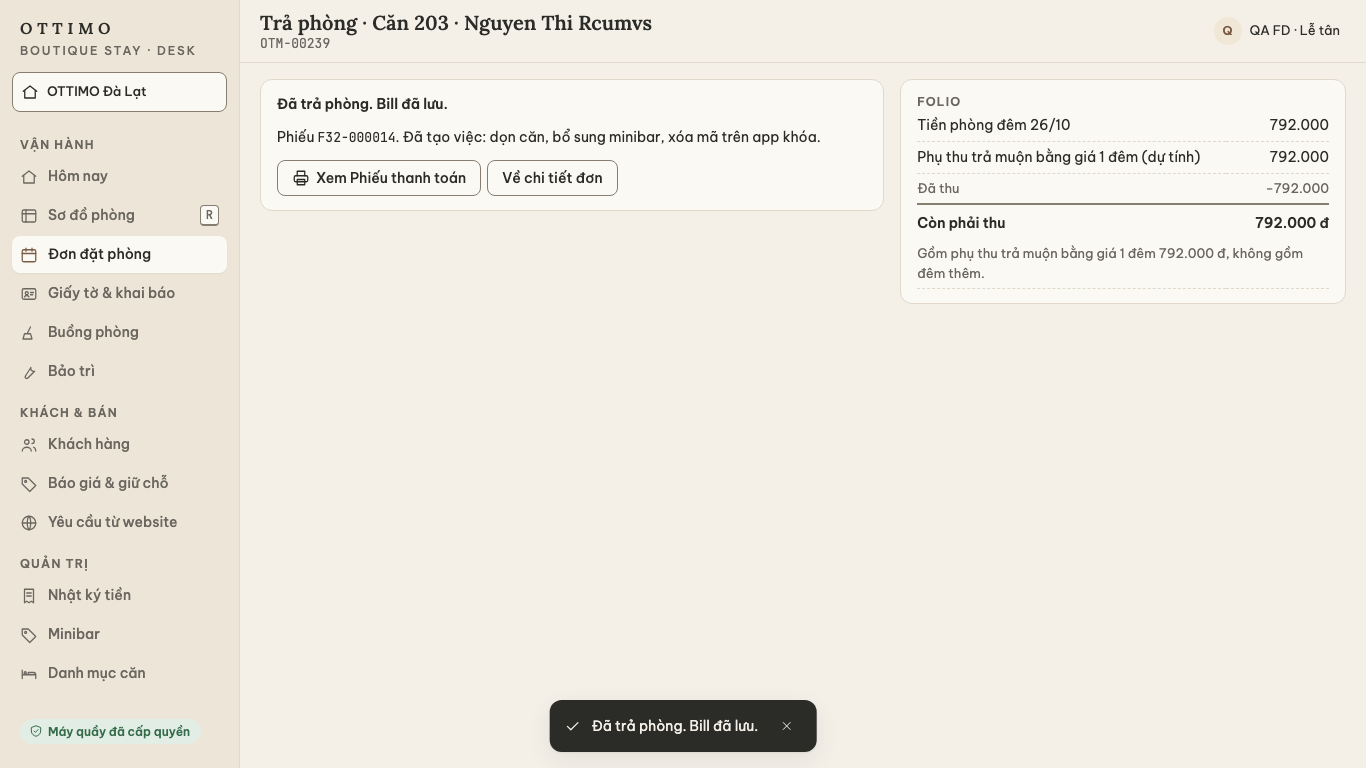
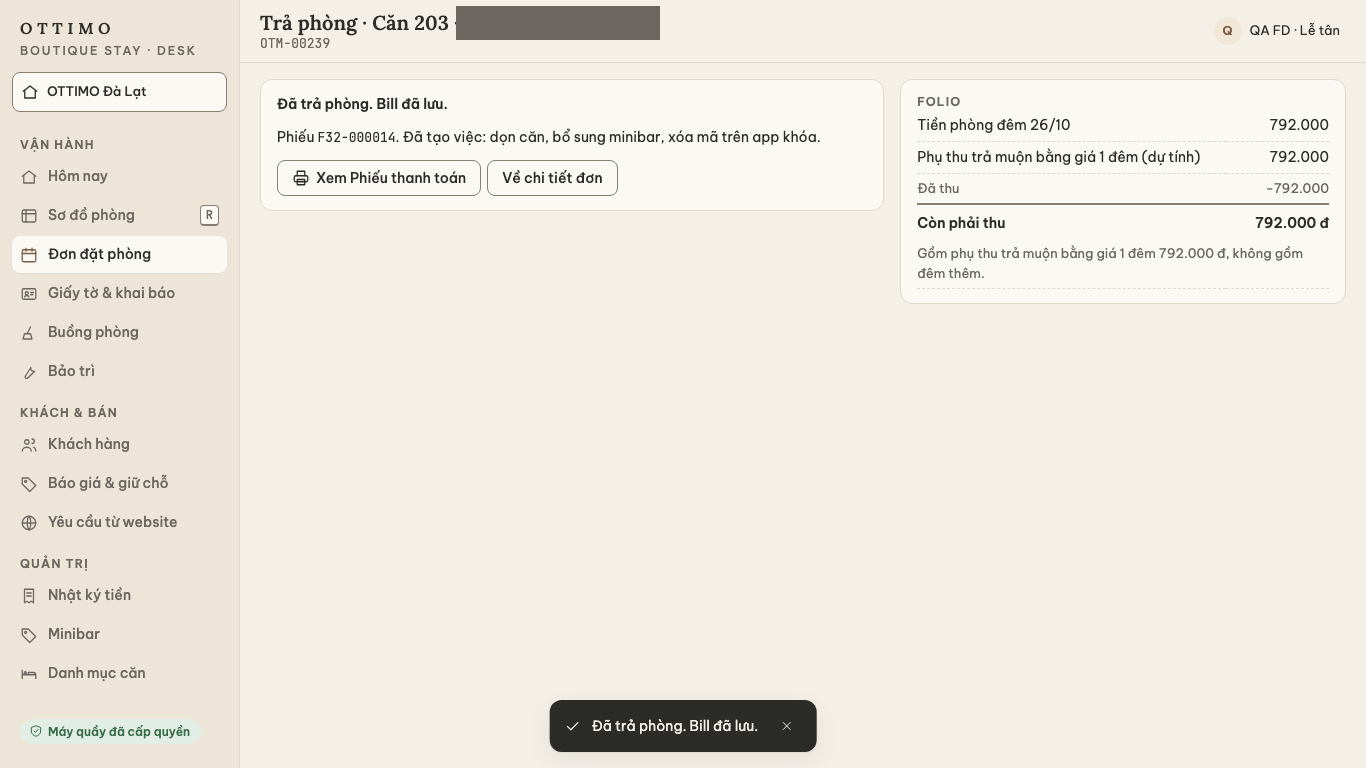
round-3: Phản hồi & sửa – FE-A v1.0.0 fix BUG-R3-033: H16 Folio card reads the settled folio after check-out; mask guest name in esc031 shot
- After B18 (200) the Folio card on H16 showed the pre-check-out estimate (one-night late
  fee "dự tính", paid without the cash just taken, "Còn phải thu" > 0) while the server's
  folio was settled at 0. Now the card loads getFolio and shows the server's lines, paid,
  refunded and due; a failed read shows a retry block, never the old figures.
- Tests (MSW): ESC-031 postReview + cash (red before the fix), plain check-out, folio read
  error + retry.
- rounds/round-03/outputs/FE/esc031-shots/05-tra-phong-xong.png: guest name masked.

Changed region(s): [[0.3075, 0.0, 0.4919, 0.0625]]

diff --git a/product/apps/admin-web/src/__tests__/bug-r3-033-fea.test.tsx b/product/apps/admin-web/src/__tests__/bug-r3-033-fea.test.tsx
@@ -1,0 +1,153 @@
+// BUG-R3-033 (QA 28/10, staging rc.3, P2): after "Hoàn tất" (B18 200) the Folio card of H16 still showed the estimate
+// from before check-out – "Phụ thu trả muộn bằng giá 1 đêm (dự tính) 792.000 · Đã thu −792.000 · Còn phải thu
+// 792.000 đ" – while the server's folio was `settled`, paid 1.584.000, due 0: the desk could collect twice.
+// Fix: once B18 answers, the card reads the settled folio from the server (`getFolio`) – lines B18 posted, "Đã thu" and
+// "Còn phải thu" as the server says; nothing kept from the summary or the cash staged on step 3.
+import { fireEvent, screen, waitFor, within } from '@testing-library/react';
+import { afterEach, describe, expect, it, vi } from 'vitest';
+import { api } from '../app/api';
+import { todayLocal } from '../app/dates';
+import { mockControl } from '../mocks/handlers';
+import { PROPERTY_ID } from '../mocks/seed';
+import { renderApp, tv } from '../test/render';
+
+const res = (guest: string) => mockControl.rsv.reservations.find((r) => r.guestName === guest)!;
+const money = (n: number) => tv('common.currency_vnd', { amount: n.toLocaleString('vi-VN') });
+const dots = (n: number) => n.toLocaleString('vi-VN');
+const num = (s: string) => Number(s.replace(/\D/g, ''));
+const esc = (s: string) => s.replace(/[.*+?^${}()|[\]\\]/g, '\\$&');
+const REASON = 'Rời 20:30, căn có khách đến tối nay';
+const at = (hhmm: string) => {
+  vi.useFakeTimers({ toFake: ['Date'] });
+  vi.setSystemTime(new Date(`${todayLocal()}T${hhmm}:00+07:00`));
+};
+afterEach(() => vi.useRealTimers());
+
+type User = ReturnType<typeof renderApp>['user'];
+
+/** The H16 Folio card (`section` under the "Folio" heading). */
+const folioCard = () =>
+  screen.getByRole('heading', { name: tv('drawer.folio.title') }).closest('section')!;
+const rowValue = (card: HTMLElement, key: string) =>
+  num(
+    within(card).getByRole('row', { name: new RegExp(`^${esc(tv(key))}\\s*[−+]?\\d`) })
+      .textContent ?? '',
+  );
+
+/** Phạm Huy (201) leaves today; the nights are already paid in cash (the folio owes 0 before B18). */
+function nightsPaid() {
+  mockControl.db.mfaEnforced = true;
+  const r = res('Phạm Huy');
+  mockControl.stay.minibarChecks.set(r.id, []);
+  mockControl.stay.payments.push({
+    id: 'p-room-033',
+    code: 'PT-033',
+    folioId: r.folioId,
+    type: 'charge',
+    method: 'cash',
+    amountVnd: 2_460_000,
+    status: 'succeeded',
+    reconciliation: 'not_required',
+    version: 1,
+  });
+  return r;
+}
+
+async function complete(user: User) {
+  await user.click(await screen.findByRole('button', { name: /hoàn tất/i }));
+  await user.click(within(await screen.findByRole('alertdialog')).getAllByRole('button')[1]!);
+  expect(await screen.findByText(tv('checkout.done'), { selector: 'b' })).toBeInTheDocument();
+}
+
+/** What the server's folio says after B18 – the figures the card must show. */
+async function serverFolio(folioId: string) {
+  const f = (await api.getFolio({ propertyId: PROPERTY_ID, folioId })).data;
+  expect(f.status).toBe('settled');
+  return f;
+}
+
+describe('BUG-R3-033 – after B18 the Folio card shows the settled folio from the server', () => {
+  it('ESC-031 postReview + cash on step 3 (QA OTM-00357): no "(dự tính)" row, paid = server, due 0', async () => {
+    at('20:35');
+    const r = nightsPaid();
+    const next = res('Gia đình anh Hưng');
+    next.roomId = r.roomId;
+    next.arrivalDate = r.departureDate;
+    const { user } = renderApp(`/reservations/${r.id}/check-out`, 'qa.fd');
+    await user.click(await screen.findByRole('button', { name: tv('co.go_extras') }));
+    fireEvent.change(await screen.findByLabelText(new RegExp(tv('checkout.departure_time'))), {
+      target: { value: '20:30' },
+    });
+    await user.click(await screen.findByRole('button', { name: tv('co.go_bill') }));
+    const fee = (
+      await api.getCheckoutSummary({ propertyId: PROPERTY_ID, reservationId: r.id }, '20:30')
+    ).data.lateFeeAsNightVnd!;
+    const box = (
+      await screen.findByRole('heading', {
+        name: tv('co.late_fee_pr_title', { amount: money(fee) }),
+      })
+    ).closest('section')!;
+    await user.type(
+      within(box).getByLabelText(new RegExp(`^${esc(tv('co.late_fee_reason'))}`)),
+      REASON,
+    );
+    await user.click(await screen.findByRole('button', { name: tv('pay.cash') }));
+    fireEvent.change(screen.getByLabelText(new RegExp(`^${esc(tv('co.cash_received'))}`)), {
+      target: { value: dots(800_000) },
+    });
+    await user.click(
+      screen.getByRole('button', { name: tv('pay.record', { amount: money(fee) }) }),
+    );
+    // Before B18: the estimate (fee row "dự tính", the cash staged for "Hoàn tất").
+    expect(within(folioCard()).getByText(tv('co.late_fee_row'))).toBeInTheDocument();
+    await complete(user);
+    await waitFor(() => expect(res('Phạm Huy').status).toBe('checked_out'));
+
+    const f = await serverFolio(r.folioId!);
+    expect(f.totals.balanceDueVnd).toBe(0);
+    expect(f.totals.paidVnd).toBe(2_460_000 + fee);
+    const card = folioCard();
+    await waitFor(() => expect(within(card).queryByText(tv('co.late_fee_row'))).toBeNull());
+    expect(rowValue(card, 'drawer.folio.paid')).toBe(f.totals.paidVnd);
+    expect(rowValue(card, 'checkout.summary.balance')).toBe(0);
+    expect(
+      within(card).queryByText(
+        new RegExp(`^${esc(tv('co.pay_at_complete_row', { method: tv('pay.cash') }))}`),
+      ),
+    ).toBeNull();
+    // Every line of the settled folio is listed – the fee B18 posted included.
+    expect(within(card).getAllByRole('row').length).toBeGreaterThanOrEqual(f.lines.length + 2);
+    expect(within(card).getByText(new RegExp(`${esc(dots(fee))}$`))).toBeInTheDocument();
+  });
+
+  it('plain check-out (no fee, nothing staged): the card is the server folio too', async () => {
+    at('11:30');
+    const r = nightsPaid();
+    const { user } = renderApp(`/reservations/${r.id}/check-out`, 'qa.fd');
+    await user.click(await screen.findByRole('button', { name: tv('co.go_extras') }));
+    await user.click(await screen.findByRole('button', { name: tv('co.go_bill') }));
+    await complete(user);
+    const f = await serverFolio(r.folioId!);
+    const card = folioCard();
+    await waitFor(() => expect(rowValue(card, 'drawer.folio.paid')).toBe(f.totals.paidVnd));
+    expect(rowValue(card, 'checkout.summary.balance')).toBe(f.totals.balanceDueVnd ?? 0);
+  });
+
+  it('the settled folio cannot be read → retry block, no stale "Còn phải thu"', async () => {
+    at('11:30');
+    const r = nightsPaid();
+    const { user } = renderApp(`/reservations/${r.id}/check-out`, 'qa.fd');
+    await user.click(await screen.findByRole('button', { name: tv('co.go_extras') }));
+    await user.click(await screen.findByRole('button', { name: tv('co.go_bill') }));
+    const getFolio = vi.spyOn(api, 'getFolio').mockRejectedValueOnce(new Error('offline'));
+    await complete(user);
+    const card = folioCard();
+    expect(
+      await within(card).findByRole('button', { name: tv('common.retry') }),
+    ).toBeInTheDocument();
+    expect(within(card).queryByRole('row')).toBeNull();
+    getFolio.mockRestore();
+    await user.click(within(card).getByRole('button', { name: tv('common.retry') }));
+    await waitFor(() => expect(rowValue(card, 'checkout.summary.balance')).toBe(0));
+  });
+});

diff --git a/product/apps/admin-web/src/pages/stay/CheckOutPage.tsx b/product/apps/admin-web/src/pages/stay/CheckOutPage.tsx
@@ -3,6 +3,7 @@ import {
   newIdempotencyKey,
   type Bill,
   type CheckOutBody,
+  type Folio,
   type FolioLine,
 } from '@ottimo/api-client';
 import { isLocaleLoaded, loadLocale, translate, useI18n, type Args } from '@ottimo/i18n';
@@ -185,7 +186,18 @@ export function CheckOutPage({ reservationId }: { reservationId: string }) {
   /** BUG-R3-017: cash / POS card collected on step 3, written by B18 as `finalPayment` (PaymentPanel `onStage`). */
   const [staged, setStaged] = useState<StagedPayment | null>(null);
   const [bill, setBill] = useState<Bill | null>(null);
-  const [done, setDone] = useState<{ billNo: string } | null>(null);
+  const [done, setDone] = useState<{ billNo: string; folioId: string } | null>(null);
+  // BUG-R3-033: after B18 the Folio card shows the SERVER's settled folio (lines B18 posted, payments, 0 due) – never
+  // the pre-check-out estimate (summary + staged cash), which still said "Còn phải thu" with nothing left to collect.
+  const [doneFolio, setDoneFolio] = useState<Folio | null>(null);
+  const [doneFolioError, setDoneFolioError] = useState<unknown>(null);
+  const loadDoneFolio = (folioId: string) => {
+    setDoneFolioError(null);
+    api.getFolio({ propertyId, folioId }).then(
+      (x) => setDoneFolio(x.data),
+      (e: unknown) => setDoneFolioError(e),
+    );
+  };
   // SEC FB-R3-SEC-FE-A-16: money received but not on the folio yet lives only in this page (never in browser
   // storage – no `posAuthCode` kept anywhere) – leaving asks first: reload / close (`beforeunload`) and any link of
   // the app (capture phase, before React Router's Link handles the click).
@@ -702,7 +714,10 @@ export function CheckOutPage({ reservationId }: { reservationId: string }) {
     }
     toast(t('checkout.done'));
     setStaged(null);
-    setDone({ billNo: out.data.billNo });
+    const doneFolioId = out.data.reservation?.folioId ?? r.folioId;
+    setDone({ billNo: out.data.billNo, folioId: doneFolioId });
+    setDoneFolio(null);
+    loadDoneFolio(doneFolioId);
     res.reload();
   };
 
@@ -796,7 +811,48 @@ export function CheckOutPage({ reservationId }: { reservationId: string }) {
       <h2 className="label-h" id={`${ids}-sum`}>
         {t('drawer.folio.title')}
       </h2>
-      {!s ? (
+      {done ? (
+        doneFolio ? (
+          <table className="sum">
+            <tbody>
+              {doneFolio.lines.map((l) => (
+                <tr key={l.id} className={l.lineState === 'pending_approval' ? 'sub' : undefined}>
+                  <td>
+                    {lineLabel(t, l)} <FocStateChip line={l} lines={doneFolio.lines} />
+                  </td>
+                  <td className="r num">{signed(vnd, l.amountVnd)}</td>
+                </tr>
+              ))}
+              {(doneFolio.totals.paidVnd ?? 0) > 0 ? (
+                <tr className="sub">
+                  <td>{t('drawer.folio.paid')}</td>
+                  <td className="r num">−{vnd(doneFolio.totals.paidVnd ?? 0)}</td>
+                </tr>
+              ) : null}
+              {(doneFolio.totals.refundedVnd ?? 0) > 0 ? (
+                <tr className="sub">
+                  <td>{t('drawer.folio.refunded')}</td>
+                  <td className="r num">+{vnd(doneFolio.totals.refundedVnd ?? 0)}</td>
+                </tr>
+              ) : null}
+              <tr className="total">
+                <td>{t('checkout.summary.balance')}</td>
+                <td className="r num" aria-live="polite">
+                  {money(doneFolio.totals.balanceDueVnd ?? 0)}
+                </td>
+              </tr>
+            </tbody>
+          </table>
+        ) : doneFolioError ? (
+          <ErrorBlock
+            titleKey="co.error_title"
+            error={doneFolioError}
+            onRetry={() => loadDoneFolio(done.folioId)}
+          />
+        ) : (
+          <LoadingBlock rows={2} />
+        )
+      ) : !s ? (
         <LoadingBlock rows={2} />
       ) : (
         <table className="sum">

diff --git a/rounds/round-03/outputs/FE/v1.0.0-fixes-fe-a.md b/rounds/round-03/outputs/FE/v1.0.0-fixes-fe-a.md
@@ -159,3 +159,15 @@
 - Thẻ 19–21: dời v1.0.1 theo ORC. Phản hồi từng thẻ: `rounds/round-03/responses/v1.0.0-fixes-FE-A.md`.
 - Đã gộp `origin/main` (`46c9cb6`) vào nhánh; xung đột `decision-log.md` giữ cả hai phía.
 - Việc thêm cho QA trên `rc.4`: hộp Đổi phòng hiện câu mới; trang khách EN/RU hiện câu Wi-Fi mới; in thử 1 tờ trên máy in quầy.
+
+## 7. Bổ sung 28/10 – BUG-R3-033 (P2), nhánh `fe-a-v1.0.0-fixes-2`
+
+- **Nguyên nhân:** sau khi B18 trả 200, `CheckOutPage.tsx` chỉ tải lại đơn (`res.reload()`). Khung Folio vẫn dựng từ `checkout-summary` lần trước và tiền mặt giữ ở bước 3 (`staged`, đã xóa). Kết quả: dòng "Phụ thu trả muộn bằng giá 1 đêm (dự tính)", "Đã thu" chỉ còn số cũ, "Còn phải thu" là số dự tính. Phản hồi B18 chỉ có `reservation` + `billNo`, không có folio.
+- **Sửa:** khi B18 xong, Desk gọi `getFolio` (folio `settled`) và khung Folio hiện đúng số máy chủ: mọi dòng đã ghi (gồm phụ thu B18 vừa ghi, không còn chữ "dự tính"), "Đã thu" = `totals.paidVnd`, "Đã hoàn" nếu có, "Còn phải thu" = `totals.balanceDueVnd`. Chưa đọc được folio thì hiện khối lỗi có "Thử lại", không hiện số cũ. Không đổi hợp đồng, không tính tiền ở client.
+- **Test:** `src/__tests__/bug-r3-033-fea.test.tsx` (3 ca, MSW):
+  - ESC-031 `postReview` + tiền mặt ở bước 3 (ca QA OTM-00357): **đỏ trước khi sửa**, xanh sau.
+  - Trả phòng thường (không phụ thu, không giữ tiền): xanh cả trước và sau – đường này không bị lỗi (trả lời mục "Chưa kiểm" của QA trên mock).
+  - Không đọc được folio: khối "Thử lại", không còn dòng số cũ; bấm lại thì hiện còn 0 – đỏ trước khi sửa.
+- **Ảnh:** che tên khách ở `esc031-shots/05-tra-phong-xong.png` (khối Stone đặc trên tiêu đề). Bản cũ chưa che vẫn còn trong lịch sử git – xóa khỏi lịch sử là việc ORC/SEC quyết.
+- **Kiểm tra:** admin-web 62 file / 644 ca đạt; `tsc`, eslint (0 lỗi), `prettier --check`, `vite build` đạt.
+- **Việc cho QA:** lặp lại ca 16.3 trên bản có sửa: sau "Hoàn tất", khung Folio hiện dòng phụ thu đã ghi, "Đã thu −1.584.000", "Còn phải thu 0 đ"; thêm một lần trả phòng thường có `finalPayment` (đêm thêm trả tiền mặt).
